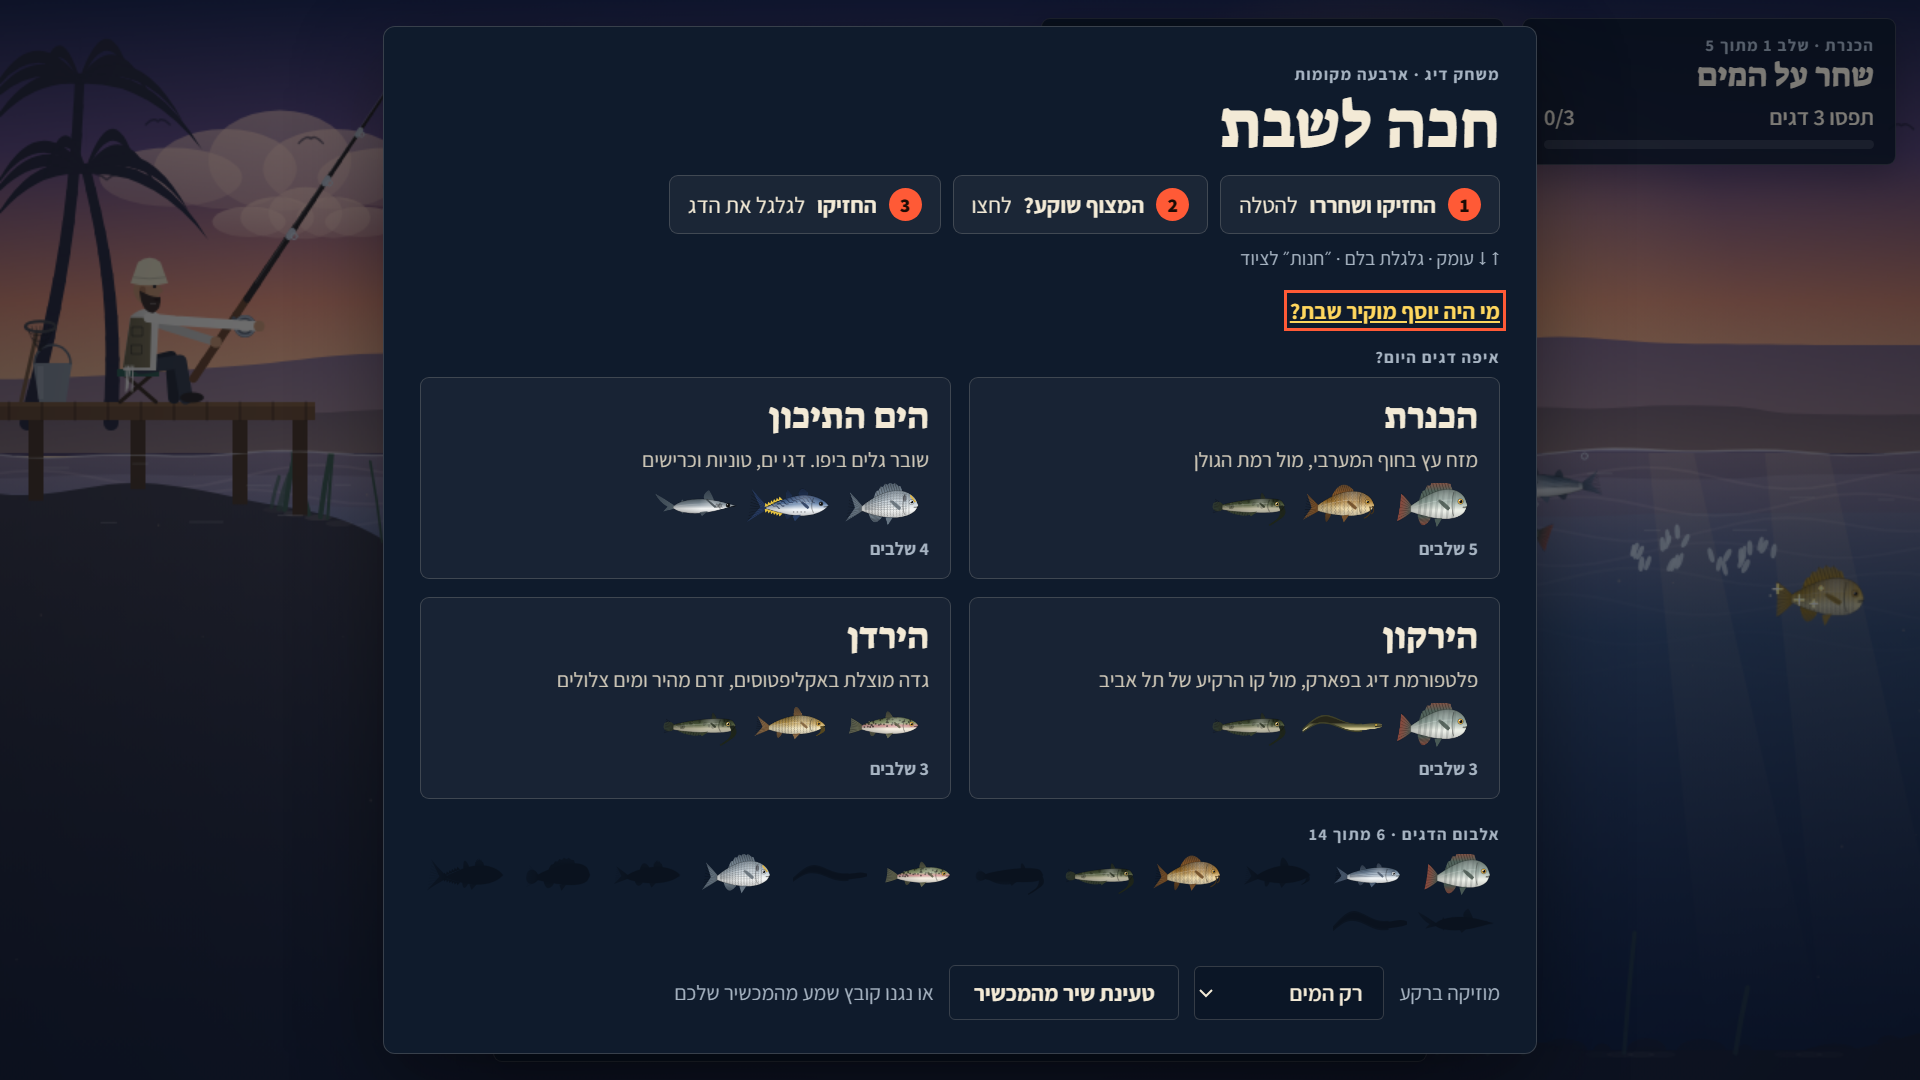
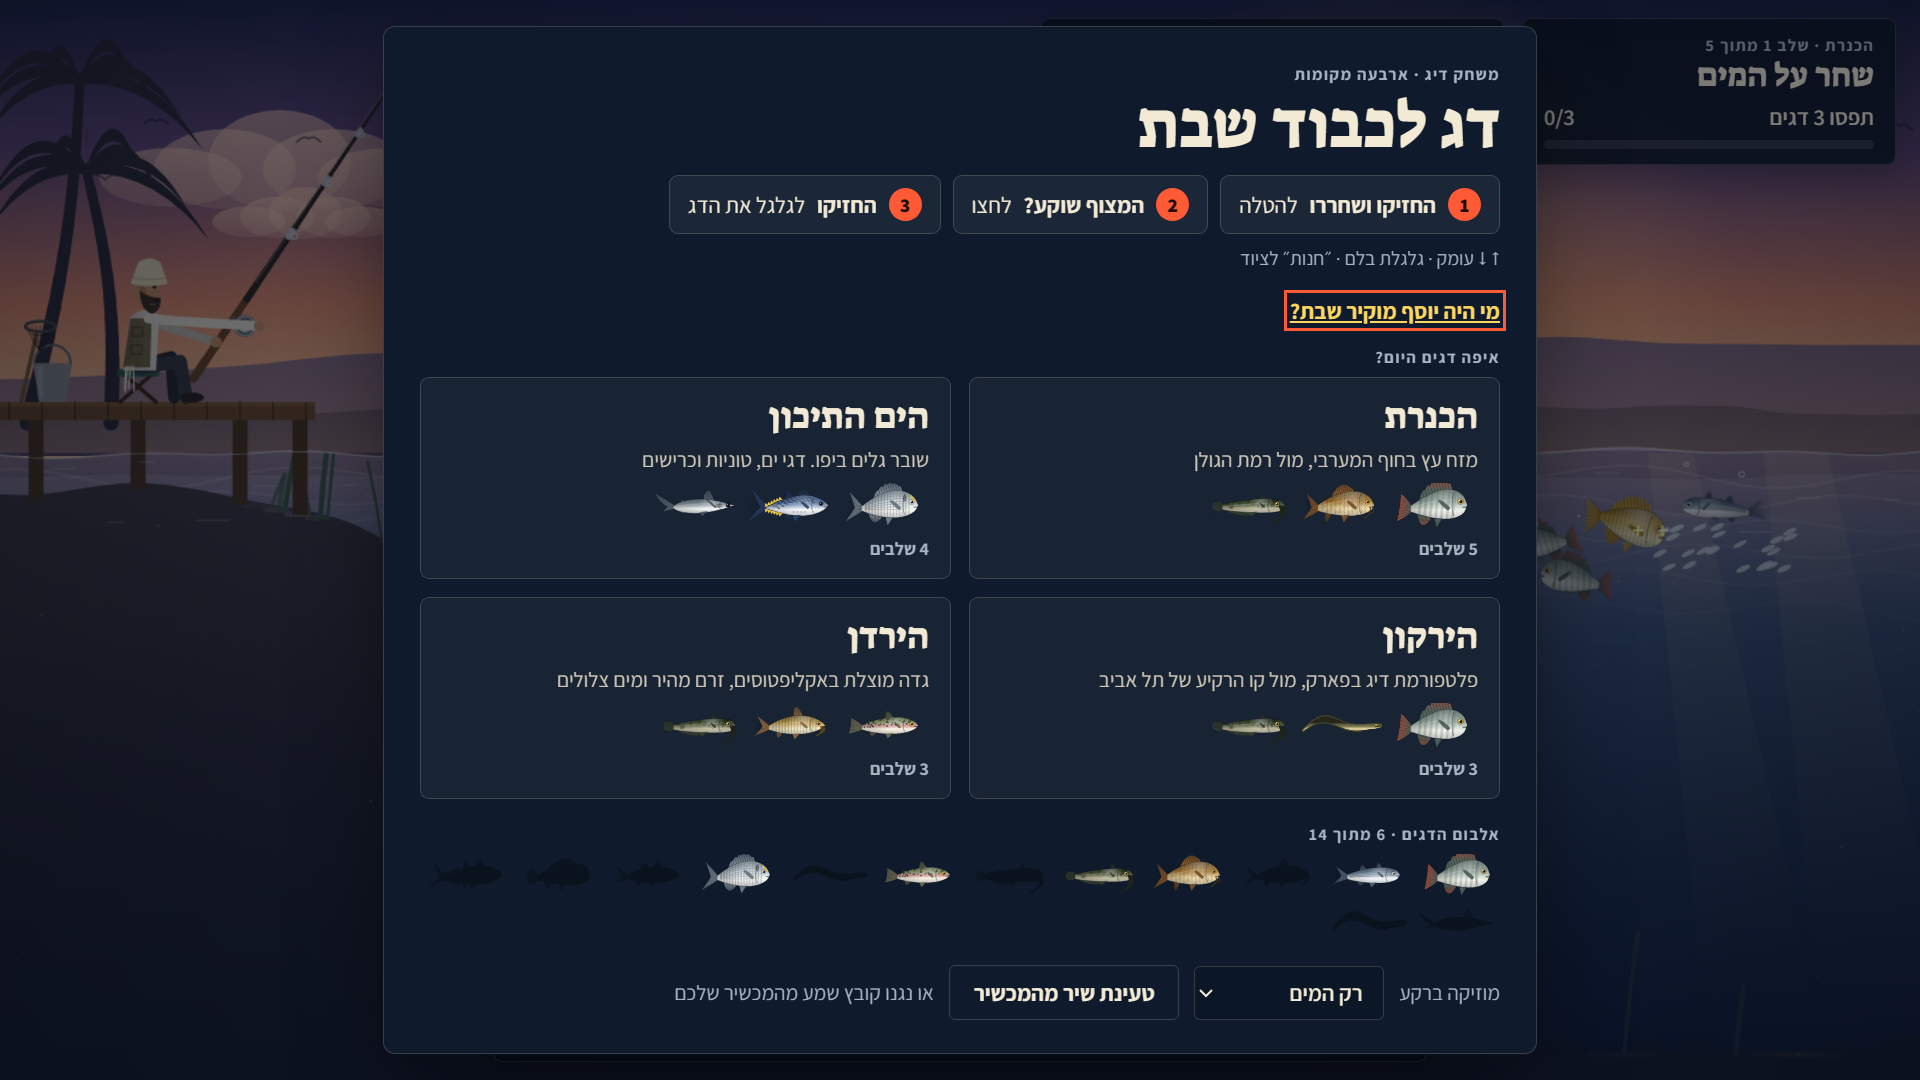
שם חדש: דג לכבוד שבת

Changed region(s): [[0.7812, 0.4583, 0.9688, 0.5806], [0.5938, 0.0917, 0.7812, 0.1528]]

diff --git a/index.html b/index.html
@@ -5,12 +5,12 @@
 <meta name="viewport" content="width=device-width, initial-scale=1, viewport-fit=cover">
 <meta name="description" content="משחק דיג בדפדפן: כנרת, ים, ירקון וירדן.">
 <meta property="og:type" content="website">
-<meta property="og:title" content="חכה לשבת · משחק דיג">
+<meta property="og:title" content="דג לכבוד שבת · משחק דיג">
 <meta property="og:description" content="כנרת, ים, ירקון וירדן. בחינם, בלי התקנה.">
 <meta property="og:image" content="https://vizel014.github.io/hakhaleshabat/screenshots/05-yosef-mokir-shabbat.png">
 <meta property="og:url" content="https://vizel014.github.io/hakhaleshabat/">
 <meta name="twitter:card" content="summary_large_image">
-<title>חכה לשבת</title>
+<title>דג לכבוד שבת</title>
 <link rel="preconnect" href="https://fonts.googleapis.com">
 <link rel="preconnect" href="https://fonts.gstatic.com" crossorigin>
 <link href="https://fonts.googleapis.com/css2?family=Assistant:wght@400;600;700;800&family=Suez+One&display=swap" rel="stylesheet">
@@ -1588,7 +1588,7 @@ function showMap() {
   const album = allSp.map(k => `<img class="${wallet.album[k] ? '' : 'no'}" alt="${SP[k].name}" title="${SP[k].name}${wallet.album[k] ? ' · ' + wallet.album[k].toFixed(2) + ' ק״ג' : ''}" src="${thumb(k)}">`).join('');
   showCard(`
     <div class="eyebrow">משחק דיג · ארבעה מקומות</div>
-    <h1>חכה לשבת</h1>
+    <h1>דג לכבוד שבת</h1>
     <ol class="how"><li><b>החזיקו ושחררו</b> להטלה</li><li><b>המצוף שוקע?</b> לחצו</li><li><b>החזיקו</b> לגלגל את הדג</li></ol>
     <p class="howmore">↑ ↓ עומק · גלגלת בלם · ״חנות״ לציוד</p>
     <button class="linkbtn" id="storyBtn" type="button">מי היה יוסף מוקיר שבת?</button>

diff --git a/README.md b/README.md
@@ -1,4 +1,8 @@
+# דג לכבוד שבת 🎣
 # חכה לכבוד לשבת 🎣
+=======
+# דג לכבוד שבת 🎣
+>>>>>>> 8f996de (שם חדש: דג לכבוד שבת)
 
 משחק דיג בדפדפן, בחינם ובלי התקנה.
 
